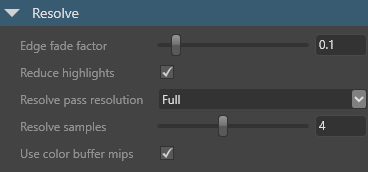
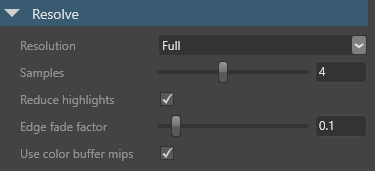
[Local reflections] update screenshots

diff --git a/en/manual/graphics/post-effects/local-reflections.md b/en/manual/graphics/post-effects/local-reflections.md
@@ -90,7 +90,7 @@ The maximum number of raycast steps allowed per pixel. Higher values produce bet
 
 The raycast resolution. There are two options: **full** and **half**. Full gives better quality, but half improves performance. The default value is half.
 
-#### Start bias
+#### Ray start bias
 
 The offset of the raycast origin. Lower values produce more correct reflection placement, but produce more artefacts. We recommend values of `0.03` or lower. The default value is `0.01`.
 
@@ -103,13 +103,13 @@ The offset of the raycast origin. Lower values produce more correct reflection p
 
 ![Resolve properties](media/resolve-properties.png)
 
-#### Edge fade factor
+#### Resolution 
 
-The point at which the far edges of the reflection begin to fade. This has no effect on performance. The default value is `0.1`. 
+Calculates reflection color using raycast results. There are two options: **full** and **half**. Full gives the best results, but half improves performance. The default value is **full**.
 
-| Edge fade factor: `0` | Edge fade factor: `0.5`
-|---------------------|---------
-|  ![Edge fade factor: 0](media/zero-edgefade.png) |   ![Edge fade factor: 0.5](media/half-edgefade.png) 
+#### Samples 
+
+The number of rays used to resolve the reflection color. Higher values produce less noise, but worse performance. The default value is `4`.
 
 #### Reduce highlights
 
@@ -119,13 +119,13 @@ Reduces the brightness of particularly bright areas of reflections. This has no 
 |---------------------|---------
 |  ![Edge fade factor: 0.5](media/reduce-highlights-on.png) | ![Edge fade factor: 0](media/reduce-highlights-off.png) 
 
-#### Samples 
+#### Edge fade factor
 
-The number of rays used to resolve the reflection color. Higher values produce less noise, but worse performance. The default value is `4`.
+The point at which the far edges of the reflection begin to fade. This has no effect on performance. The default value is `0.1`. 
 
-#### Resolution 
-
-Calculates reflection color using raycast results. There are two options: **full** and **half**. Full gives the best results, but half improves performance. The default value is **full**.
+| Edge fade factor: `0` | Edge fade factor: `0.5`
+|---------------------|---------
+|  ![Edge fade factor: 0](media/zero-edgefade.png) |   ![Edge fade factor: 0.5](media/half-edgefade.png) 
 
 #### Use color buffer mips 
 
